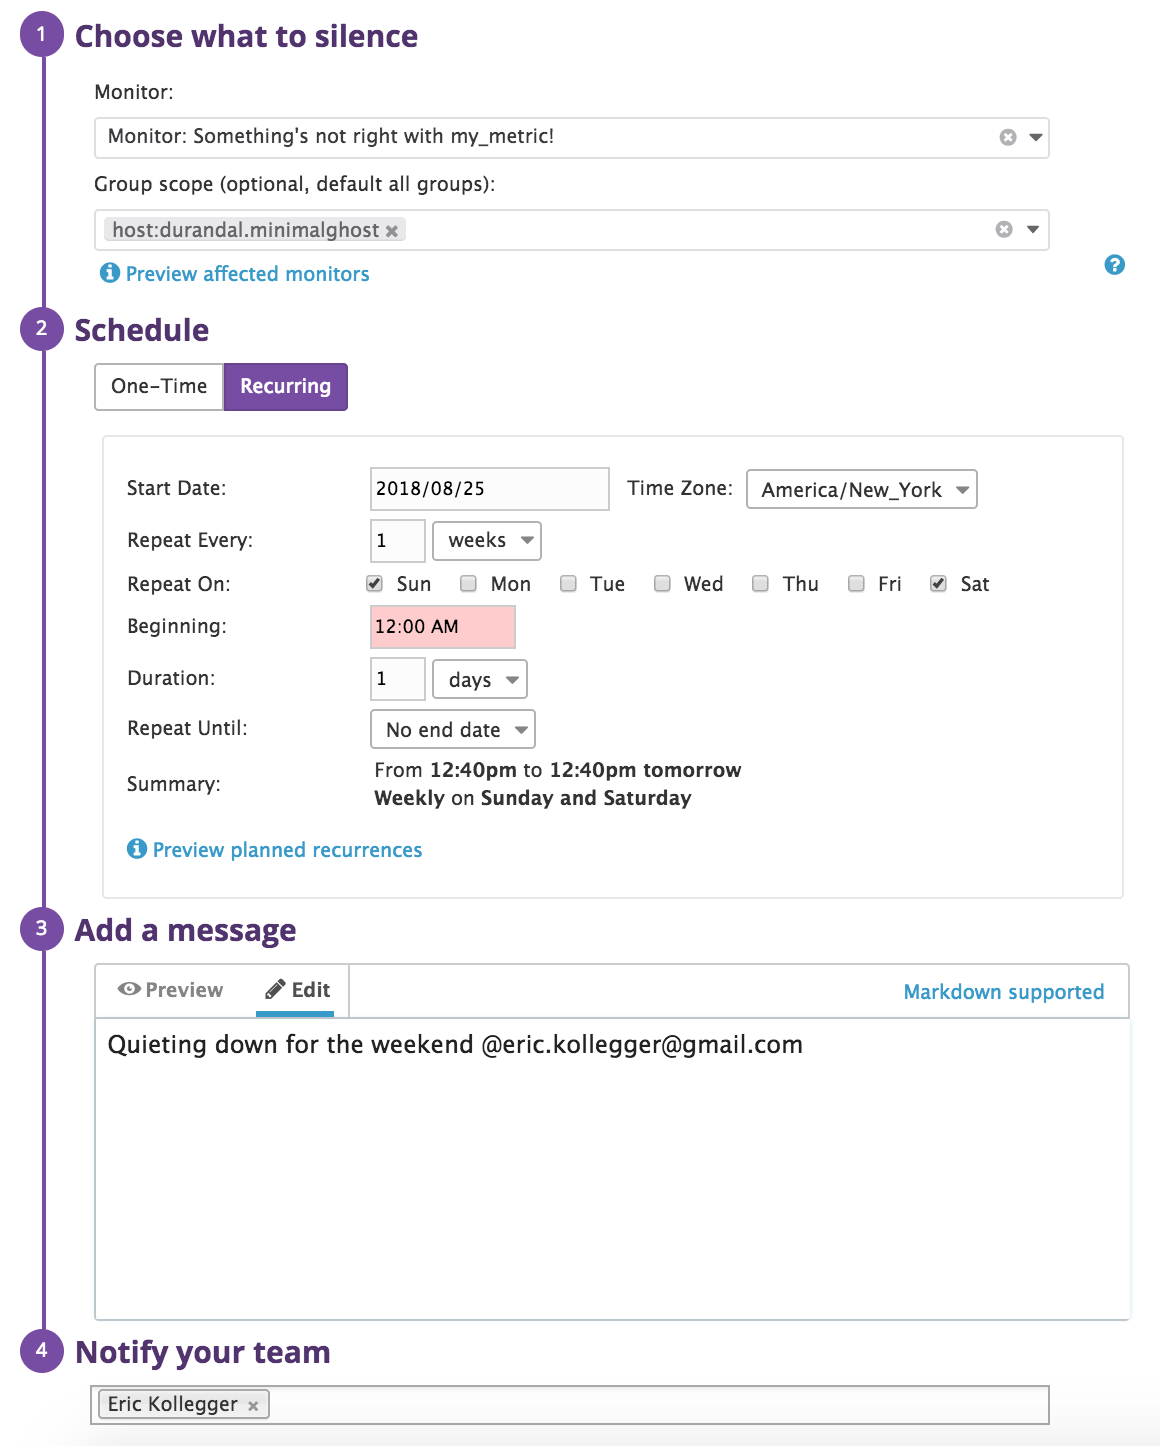
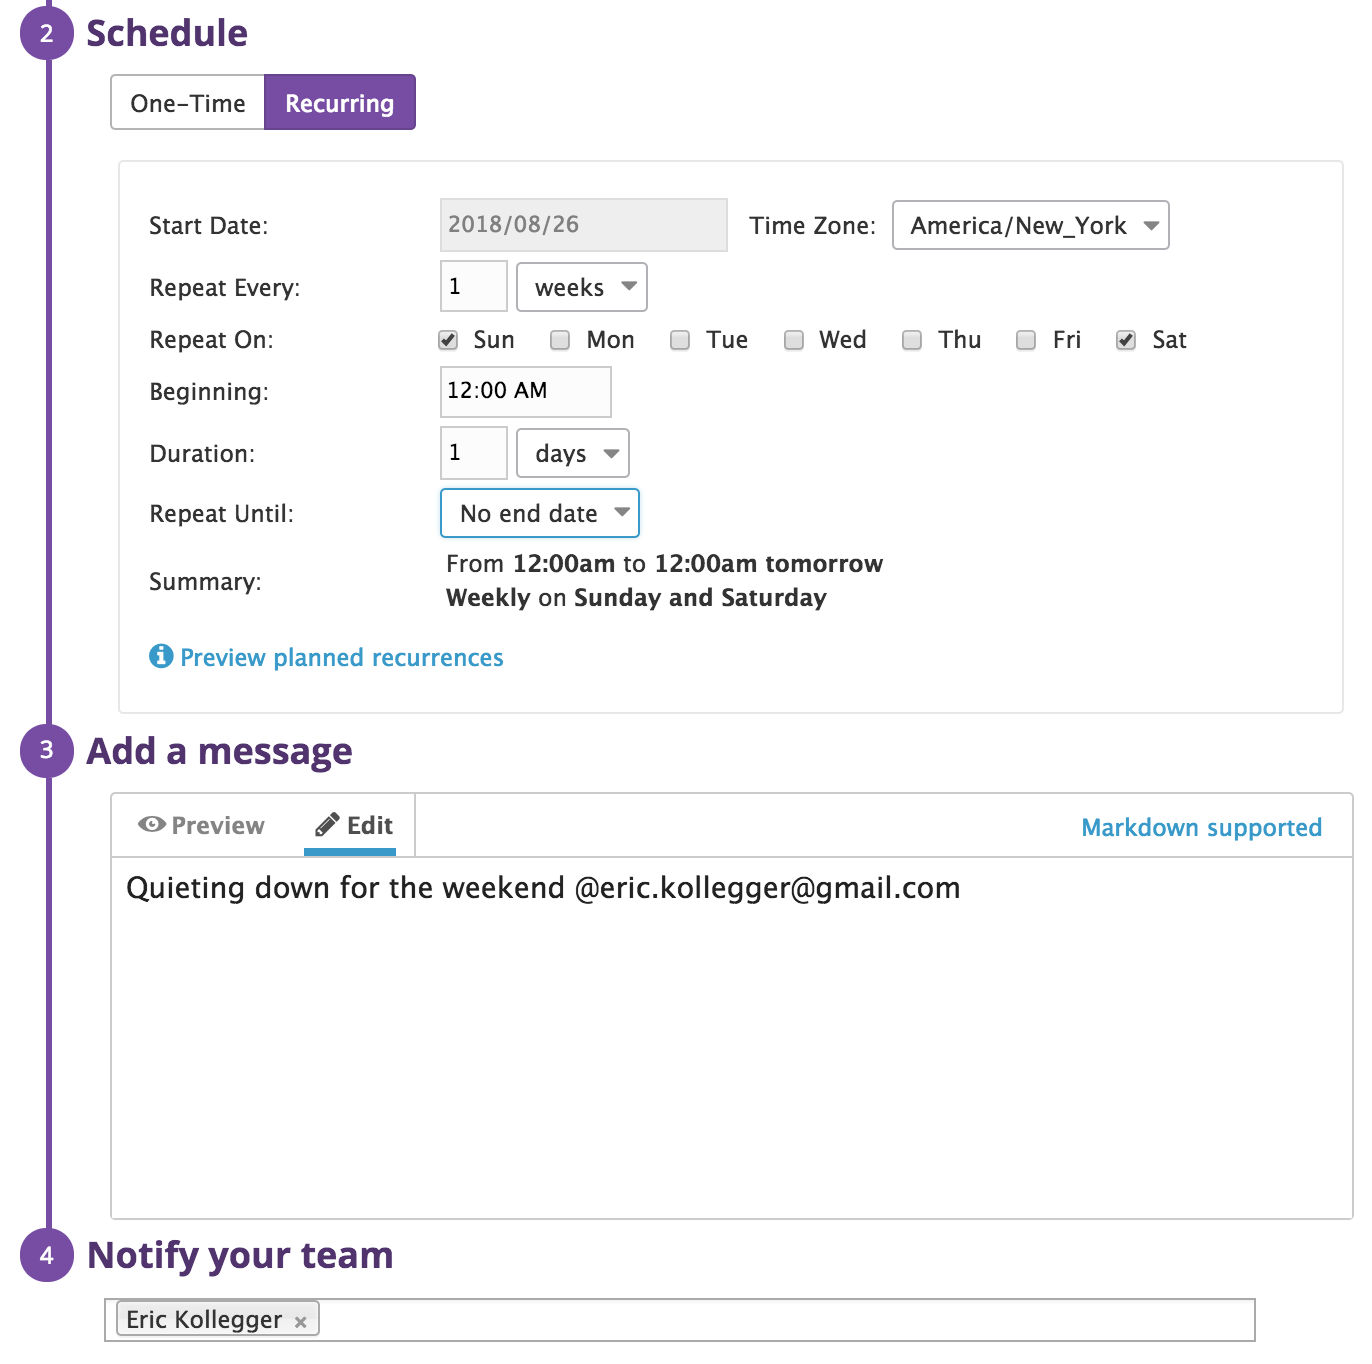
apm and final question complete

diff --git a/answers.md b/answers.md
@@ -15,7 +15,7 @@
 I edited the `postgres.yaml` file found in `/opt/datadog-agent/etc/conf.d`:
 ![posgres yaml](screenshots/postgres_yaml.png "Posgres Config")
 
-Restarted the agent and ran `datadog-agent status` in terminal to confirm my integration was successful by finding this:
+Restarted the agent and ran `datadog-agent status` in terminal to confirm my integration was successful:
 ![posgres confirmation](screenshots/postgres_integration_confirmed.png "Postgres Integration Confirmed")
 
 And on the Dashboard:
@@ -92,11 +92,11 @@ This results in the targeted user receiving an email notification with the snaps
 
 ## Monitoring Data
 
-* To create a new monitor go to Monitors > New Monitor on the dashboard.
+* To create a new monitor go to **Monitors > New Monitor** on the dashboard.
 
-1. Choose the detection method: Leave the default `Threshold Alert`.
+1. Choose the detection method: Leave the default **Threshold Alert**.
 2. Define the metric: Select `my_metric` from the metric dropdown list and set from to `host:durandal.minimalghost`, the rest of the options can be left to default.
-3. Set alert conditions: Set `Alert threshold` to 800 and `Warning threshold` to 500. Select `Notify` if data is missing from the dropdown. Everything else can be left as default.
+3. Set alert conditions: Set **Alert threshold** to **800** and **Warning threshold** to **500**. Select `Notify` if data is missing from the dropdown. Everything else can be left as default.
 
 The final product should look something like this:
 ![create monitor](screenshots/monitor_creation.png "Create Monitor")
@@ -125,12 +125,74 @@ When the warning threshold condition was met I received this email:
   * And one that silences it all day on Sat-Sun
   * Make sure that your email is notified when you schedule the downtime and take a screenshot of that notification
 
-By navigating to Monitors > Manage Downtime and clicking the `Schedule Downtime` button, I was able to configure these two downtime requests.
+By navigating to **Monitors > Manage Downtime** and clicking the **Schedule Downtime** button, I was able to configure these two downtime requests.
 
 * Weeknights downtime:
 ![weeknight downtime](screenshots/weeknight_downtime.png "Weeknight Downtime")
 
-* Weekend downtime, note the beginning time is highlighted red and the summary time is displaying incorrectly because this was scheduled around 12:40PM on a Saturday:
+* Weekend downtime:
 ![weekend downtime](screenshots/weekend_downtime.png "Weekend Downtime")
 
-* Email notification for weeknight downtime to be added Monday night:
+* Email notification for weeknight downtime:
+![weeknight email notification](screenshots/weekend_email_downtime.png "Weekend Email Notification")
+
+## Collecting APM Data
+
+* First I manually downloaded the trace agent from GitHub by running `go get github.com/DataDog/datadog-trace-agent/cmd/trace-agent` then `cd go/src/github.com/DataDog/datadog-trace-agent` and ran `make install`. I checked to confirm my trace agent had properly installed by looking for it in `/opt/datadog-agent/embedded/bin`. Then I made sure to uncomment the agent apm settings in `datadog.yaml` so my app could be properly traced by the agent.
+
+I installed dd_trace and blinker via `pip install`, then following the Flask trace docs [here](http://pypi.datadoghq.com/trace/docs/#) I added the necessary imports:
+
+```from flask import Flask
+import blinker as _
+import logging
+import sys
+from ddtrace import tracer
+from ddtrace.contrib.flask import TraceMiddleware
+
+# Have flask use stdout as the logger
+main_logger = logging.getLogger()
+main_logger.setLevel(logging.DEBUG)
+c = logging.StreamHandler(sys.stdout)
+formatter = logging.Formatter('%(asctime)s - %(name)s - %(levelname)s - %(message)s')
+c.setFormatter(formatter)
+main_logger.addHandler(c)
+
+app = Flask(__name__)
+traced_app = TraceMiddleware(app, tracer, service="dd-flask-app", distributed_tracing=False)
+
+@app.route('/')
+def api_entry():
+    return 'Entrypoint to the Application'
+
+@app.route('/api/apm')
+def apm_endpoint():
+    return 'Getting APM Started'
+
+@app.route('/api/trace')
+def trace_endpoint():
+    return 'Posting Traces'
+
+if __name__ == '__main__':
+    app.run(host='0.0.0.0', port='5050')
+```
+
+First I enabled the trace-agent with `go/bin/trace-agent`, then in a separate terminal window I navigated to my Flask app and started it with `python dd_flask_app.py`.
+
+I saw the following outputs from the trace-app:
+![trace app output](screenshots/tracer_output.png "Trace App Output")
+
+And my Flask app:
+![flask app output](screenshots/flask_app_output.png "Flask App Output")
+
+Which indicated to me that the tracer had successfully connected to my service, listening for activity. I assumed once I wired up the trace agent to my service I would see new analytics appear on the APM docs page as it mentioned checking back there after setup, but I saw no change. I hit the
+`http://localhost:5050/` and `http://localhost:5050/api/trace` endpoints a couple times and checked back on the dashboard. Sure enough, there was a **Trace Search & Analytics** tab listing my Flask app. I then continued onto documenting the various analytics ahead.
+
+* Created a [screenboard](https://p.datadoghq.com/sb/6417246f3-6ec7b41faf9c7dac9fc3c825176756a6) with both APM and infrastructure metrics:
+![apm screenboard](screenshots/APM_Infrastructure_Screenboard.png "APM Screenboard")
+
+**Bonus Question:** What is the difference between a Service and a Resource?
+
+**Answer:** A service can be thought of as a self-contained software implementation that *serves* a specific functionality and is generally built to easily integrate with other services. They are the component pieces that make up larger platforms. Examples of a service could be Rails, ReactJS, PostgreSQL or MongoDB. A resource is any data query made to a service, for example a CRUD action made through a URL or route in an MVC framework.
+
+## Final Question
+I'm always interested in harnessing technology for social good. I think with everything going on right now regarding our democratic process being tampered with by foreign and domestic powers alike *(See: voter roll purging, gerrymandering, polling site closures around targeted demographics, hacking, etc.)* comparing metrics like voter registration versus turnout during elections in different states/districts could generate fascinating data to study. This could be used to potentially pinpoint concentrated points where these nefarious practices take place to help combat them. I'm unsure how much of this kind of information is even available publicly, I know the Census Bureau has an API but I haven't done enough research on what kind of data it exposes.
